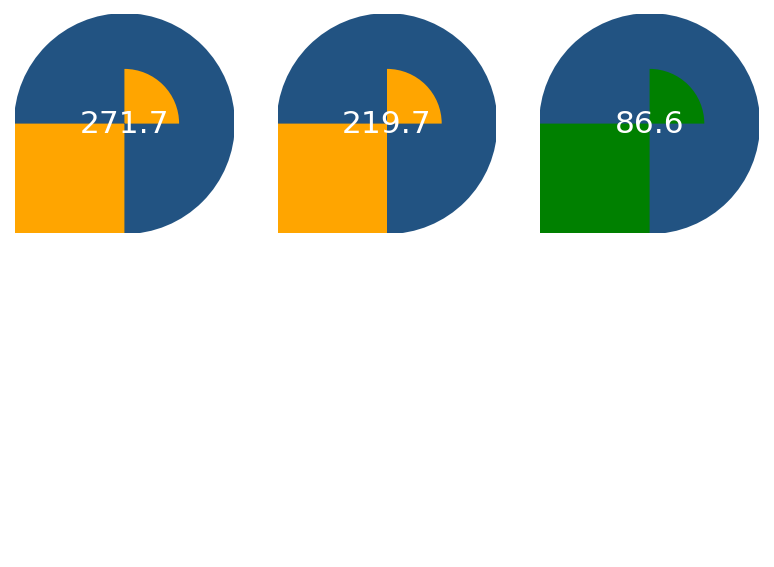
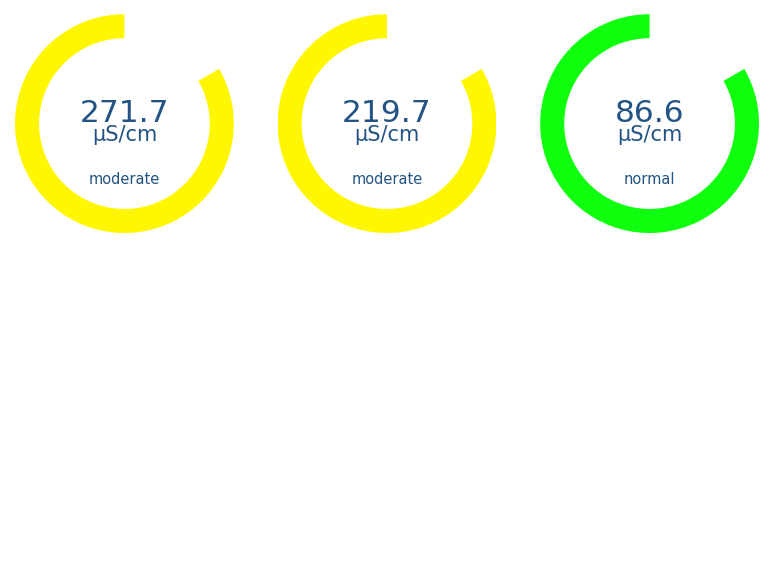
making it pretty RINGS

Changed region(s): [[0.6822, 0.0, 0.9922, 0.4198], [0.3411, 0.0, 0.6512, 0.4198], [0.0, 0.0, 0.3101, 0.4198]]

diff --git a/datasets/datasets/synthetic_outputs/conductivityPlotting.py b/datasets/datasets/synthetic_outputs/conductivityPlotting.py
@@ -16,25 +16,44 @@ def conductivity_loading(csv_path: str):
 
 def ring_creation(axes, value, min_value, max_value):
     if value < 200:
-        ringColour = "#008000"
+        ringColour = "#0FFF0F"
     elif value > 500: #fix this 575 max even tho over 800 is problem
         ringColour = "#FF0000"
     else:
-        ringColour = "#FFA500"
+        ringColour = "#FFF700FF"
 
     #circle 
-    infographicCircle = plt.Circle((0.5,0.5),0.5, color = "#225382") # stroomloop blue
+    infographicCircle = plt.Circle((0.5,0.5),0.5, color = "#22548200") # stroomloop blue
     axes.add_patch(infographicCircle) # circle not drawn until attached to axis
 
-    ring = Wedge(center=(0.5,0.5),r=0.25,theta1 = 0, theta2 = 90, width = 1, facecolor = ringColour)
+    arc = 60
+    ring = Wedge(center=(0.5,0.5),r=0.5,theta1 = 90, theta2 = (90-arc), width = 0.11, facecolor = ringColour)
     axes.add_patch(ring)
     
     #readings in the centre of the circle
-    axes.text(0.5, 0.5, f"{value}", ha = 'center', va = 'center', fontsize = 15, color = 'white')
+    axes.text(0.5, 0.55, f"{value}", ha = 'center', va = 'center', fontsize = 15, color = "#225382") # note change back to white
+    axes.text(0.5,0.45,"µS/cm", ha = 'center', va = 'center', fontsize = 10, color = "#225382")
 
-    #bypasses some automatic formatting
-    axes.set_aspect(1)
-    axes.axis('off')
+    # status
+    # status
+    normal = "normal"
+    moderate = "moderate"
+    critical = "critical"
+    if value < 200:
+        status = "normal"
+    elif value > 500: #fix this 575 max even tho over 800 is problem
+        status = "critical"
+    else:
+        status = "moderate"
+    axes.text(0.5,0.25,status,ha = 'center', va = 'center', fontsize = 7, color = "#225382") # note change back to white this is just for testing
+
+    # INSERT TIME-STAMP CODE
+
+    # organising data
+    axes.set_aspect(1) # so circle doesnt become an oval
+    axes.set_xlim(0,1) # so ring is shown
+    axes.set_ylim(0,1) # so ring is shown
+    axes.axis("off")
 
 def plot_recent_reading(df: pd.DataFrame, output_dir: str):
     recentReading = df.sort_values('timestamp').groupby('site_id').last().reset_index()     #getting most recent reading